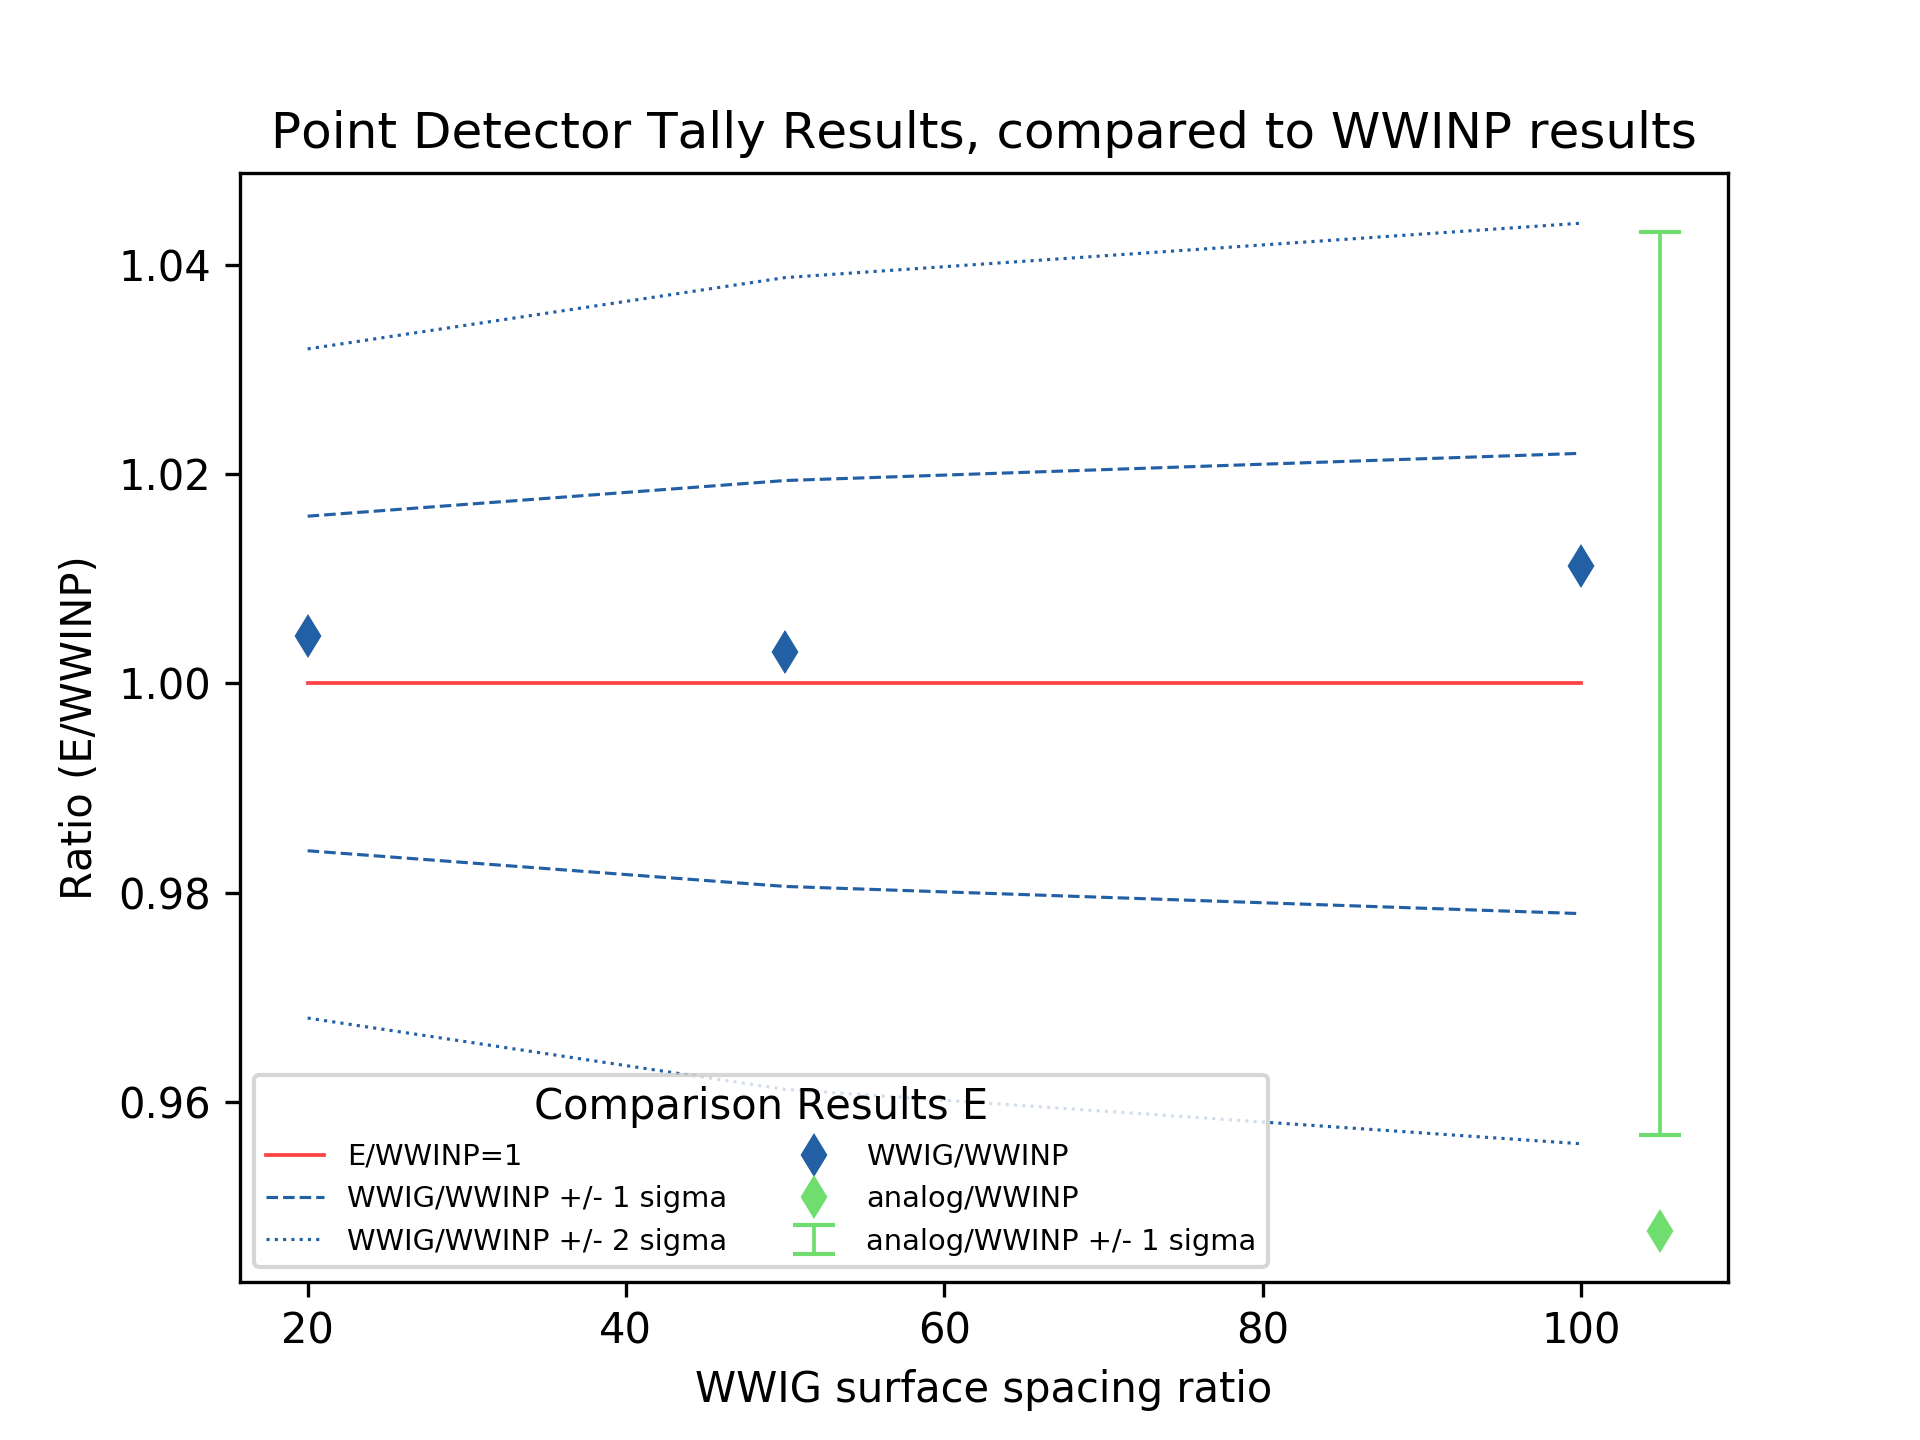
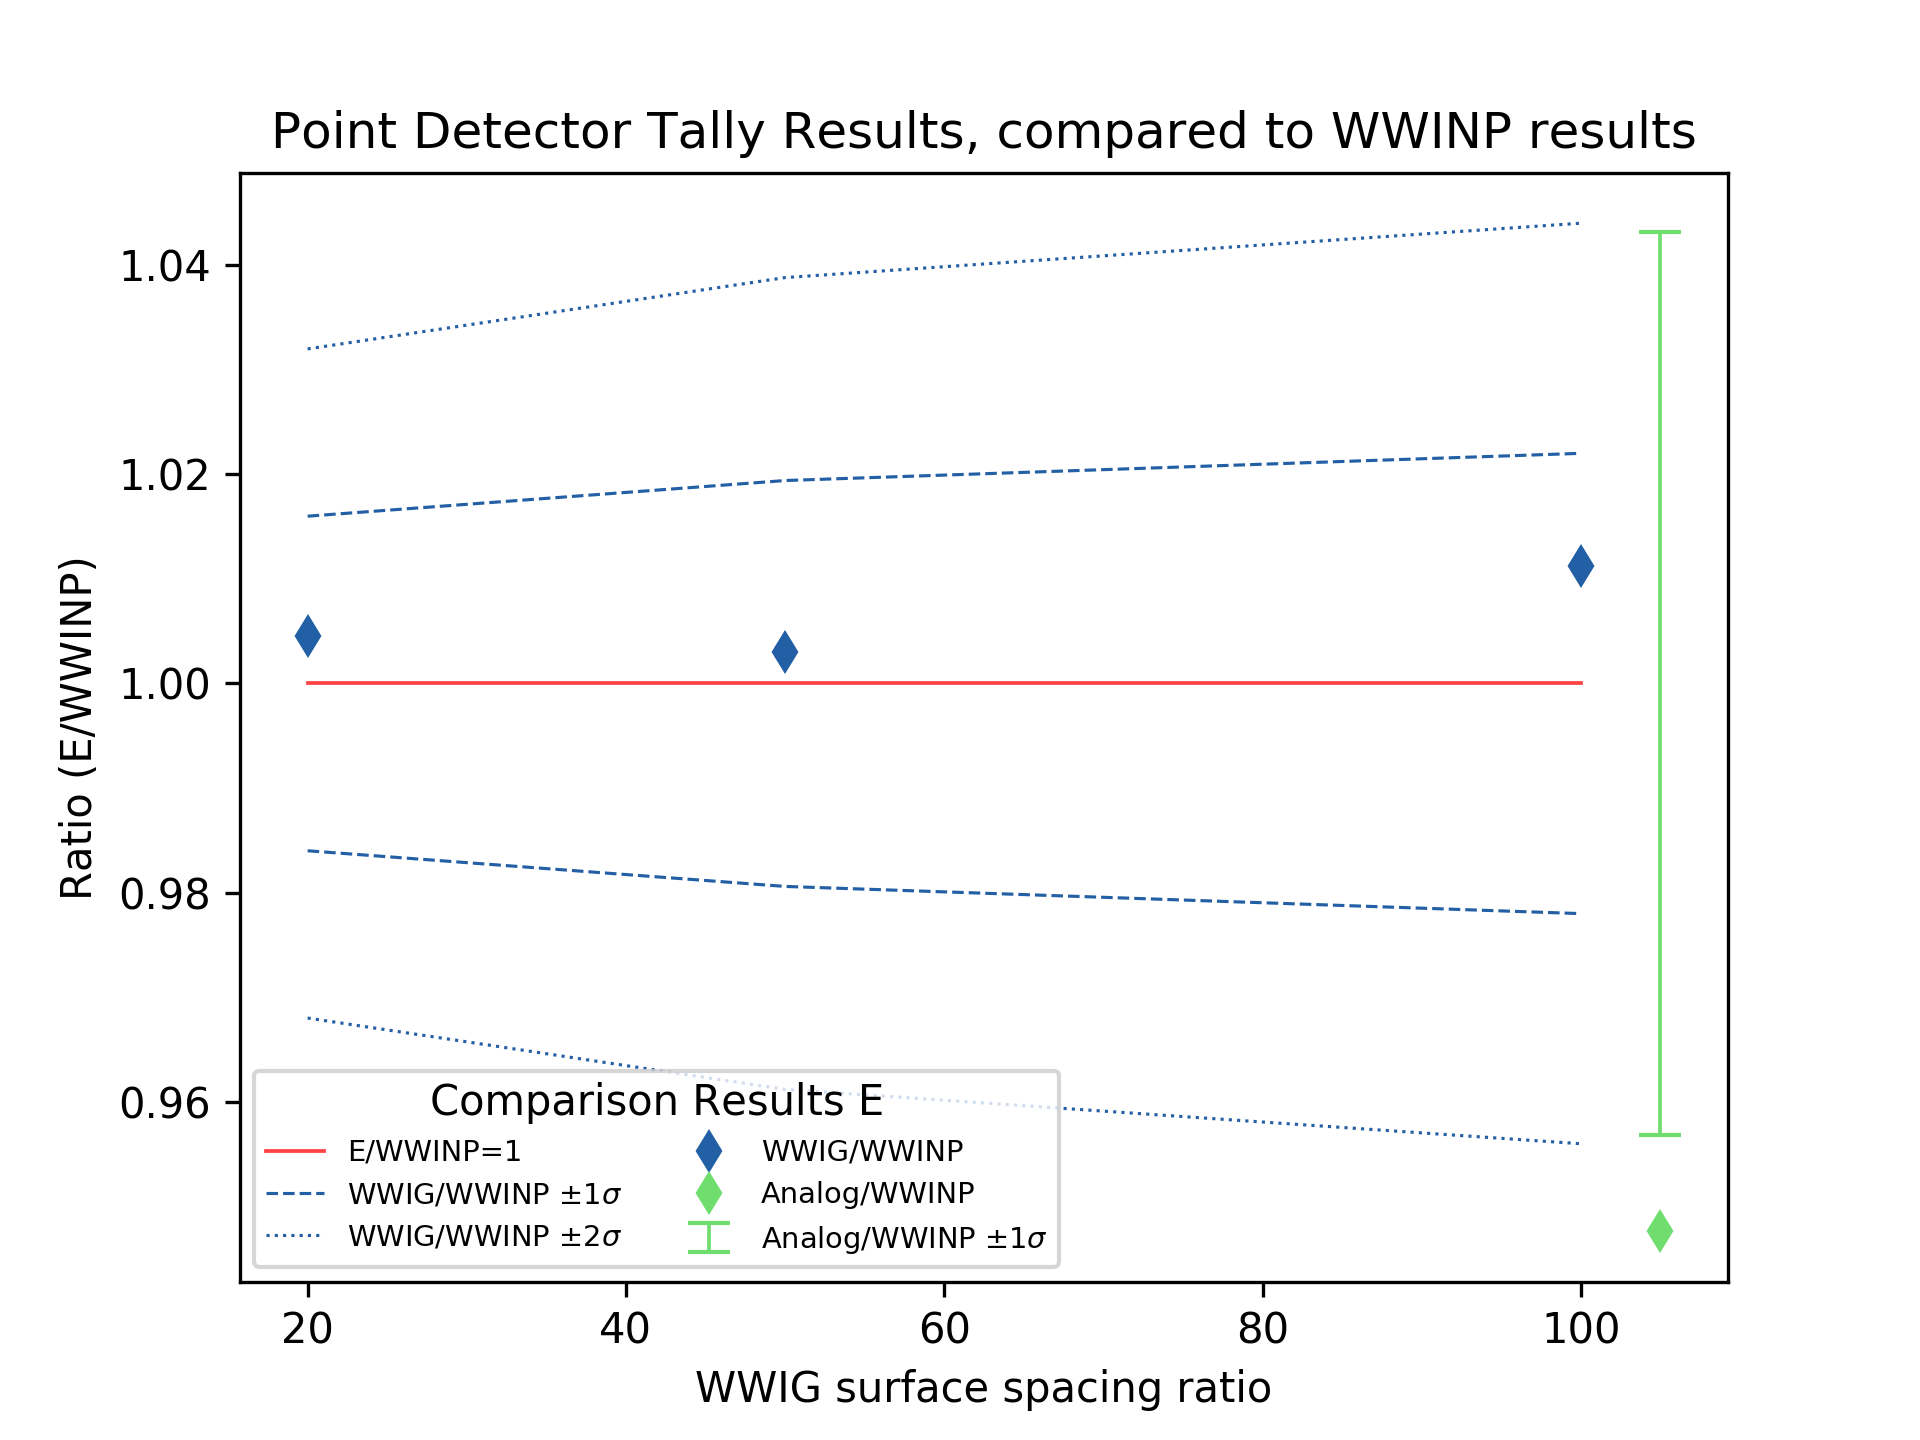
use latex symbols

Changed region(s): [[0.125, 0.7188, 0.5625, 0.875], [0.5938, 0.8438, 0.6562, 0.875]]

diff --git a/analyze/tally_15.py b/analyze/tally_15.py
@@ -55,9 +55,10 @@ plt.errorbar(ratios, wwig_res, yerr=(wwig_err*wwig_res),
 plt.errorbar([105], analog_res[0], yerr=(analog_err*analog_res)[0],
     color=analog_color, label='Analog', ls='', marker='d', lw=.9, capsize=cs)
 plt.plot(ratios, wwinp_res, label='WWINP', ls='-', marker='', lw=.9, color=wwinp_color)
-plt.plot(ratios, wwinp1_upper, label='WWINP +/- 1 sigma', ls='--', lw=.75, color=wwinp_color)
+plt.plot(ratios, wwinp1_upper, label='WWINP $\pm 1\sigma$', ls='--', lw=.75, color=wwinp_color)
 plt.plot(ratios, wwinp1_lower, label='', ls='--', lw=.75, color=wwinp_color)
-plt.plot(ratios, wwinp2_upper, label='WWINP +/- 2 sigma', ls=':', lw=.75, color=wwinp_color)
+plt.plot(ratios, wwinp2_upper, label='WWINP $\pm 2\sigma$',
+         ls=':', lw=.75, color=wwinp_color)
 plt.plot(ratios, wwinp2_lower, label='', ls=':', lw=.75, color=wwinp_color)
 plt.xlabel('WWIG surface spacing ratio')
 plt.ylabel('Tally')
@@ -80,9 +81,11 @@ ar2_upper, ar2_lower = calc_sigmas(r1, aerr, 2)
 plt.figure()
 plt.plot(ratios, r1, label='E/WWINP=1', ls='-', marker='', lw=.9, color=wwinp_color)
 
-plt.plot(ratios, wr1_upper, label='WWIG/WWINP +/- 1 sigma', ls='--', lw=.75, color=wwig_color)
+plt.plot(ratios, wr1_upper, label='WWIG/WWINP $\pm 1\sigma$',
+         ls='--', lw=.75, color=wwig_color)
 plt.plot(ratios, wr1_lower, label='', ls='--', lw=.75, color=wwig_color)
-plt.plot(ratios, wr2_upper, label='WWIG/WWINP +/- 2 sigma', ls=':', lw=.75, color=wwig_color)
+plt.plot(ratios, wr2_upper, label='WWIG/WWINP $\pm 2\sigma$',
+         ls=':', lw=.75, color=wwig_color)
 plt.plot(ratios, wr2_lower, label='', ls=':', lw=.75, color=wwig_color)
 plt.plot(ratios, wratio, label='WWIG/WWINP', ls='', marker='d', lw=.9, color=wwig_color)
 
@@ -93,8 +96,9 @@ plt.plot(ratios, wratio, label='WWIG/WWINP', ls='', marker='d', lw=.9, color=wwi
 #plt.plot(ratios, ar2_lower, label='', ls=':', lw=.75, color=analog_color)
 #plt.plot(ratios, aratio, label='Analog/WWINP', ls='', marker='d', lw=.9, color=analog_color)
 # make this plot a subplot right next to it?
-plt.errorbar([105], [1], yerr=(aratio*aerr)[0], label='analog/WWINP +/- 1 sigma', ls='', marker='', lw=.9, capsize=cs, color=analog_color)
-plt.plot([105], aratio[0], label='analog/WWINP', ls='', marker='d', lw=.9, color=analog_color)
+plt.errorbar([105], [1], yerr=(aratio*aerr)[0], label='Analog/WWINP $\pm 1\sigma$',
+             ls='', marker='', lw=.9, capsize=cs, color=analog_color)
+plt.plot([105], aratio[0], label='Analog/WWINP', ls='', marker='d', lw=.9, color=analog_color)
 
 plt.xlabel('WWIG surface spacing ratio')
 plt.ylabel('Ratio (E/WWINP)')
@@ -107,7 +111,7 @@ plt.savefig('tally15_ratios.png', dpi=dpi)
 plt.figure()
 plt.plot(ratios, wwinp_err, label='WWINP', ls='-', marker='', lw=.9, color=wwinp_color)
 plt.plot(ratios, wwig_err, label='WWIG', ls='-', marker='d', lw=.9, color=wwig_color)
-plt.plot(ratios, analog_err, label='analog', ls='-', marker='', lw=.9, color=analog_color)
+plt.plot(ratios, analog_err, label='Analog', ls='-', marker='', lw=.9, color=analog_color)
 plt.xlabel('WWIG surface spacing ratio')
 plt.ylabel('Relative Error')
 plt.title('Point Detector Tally Relative Error')
